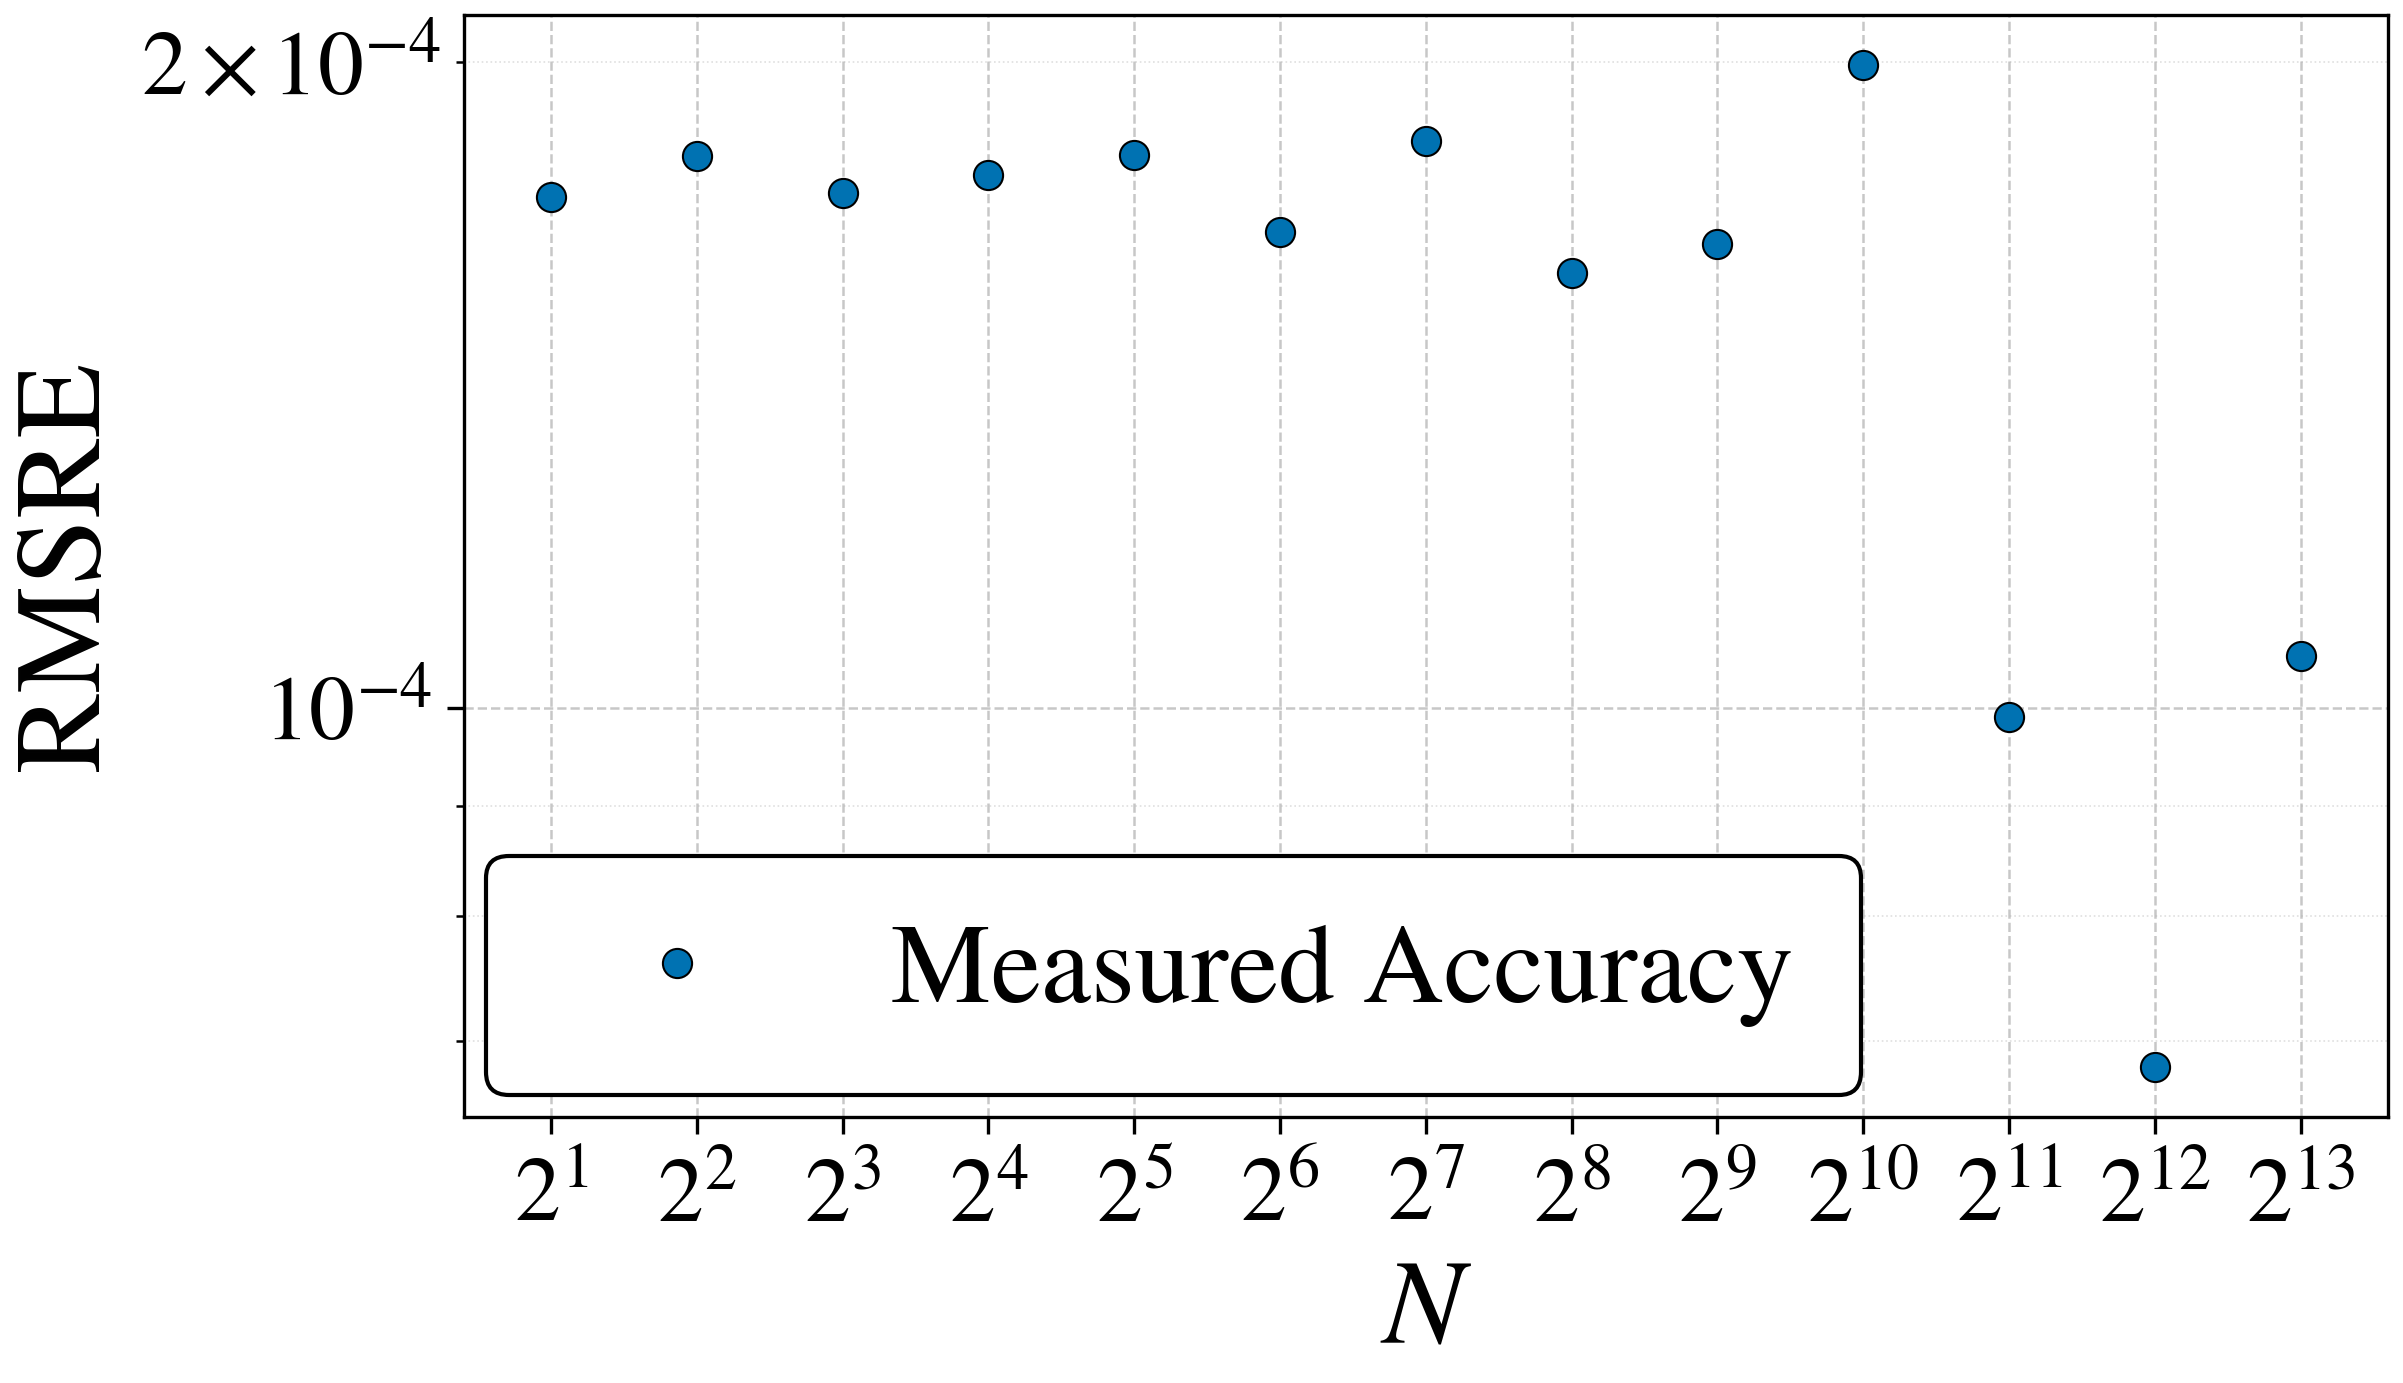
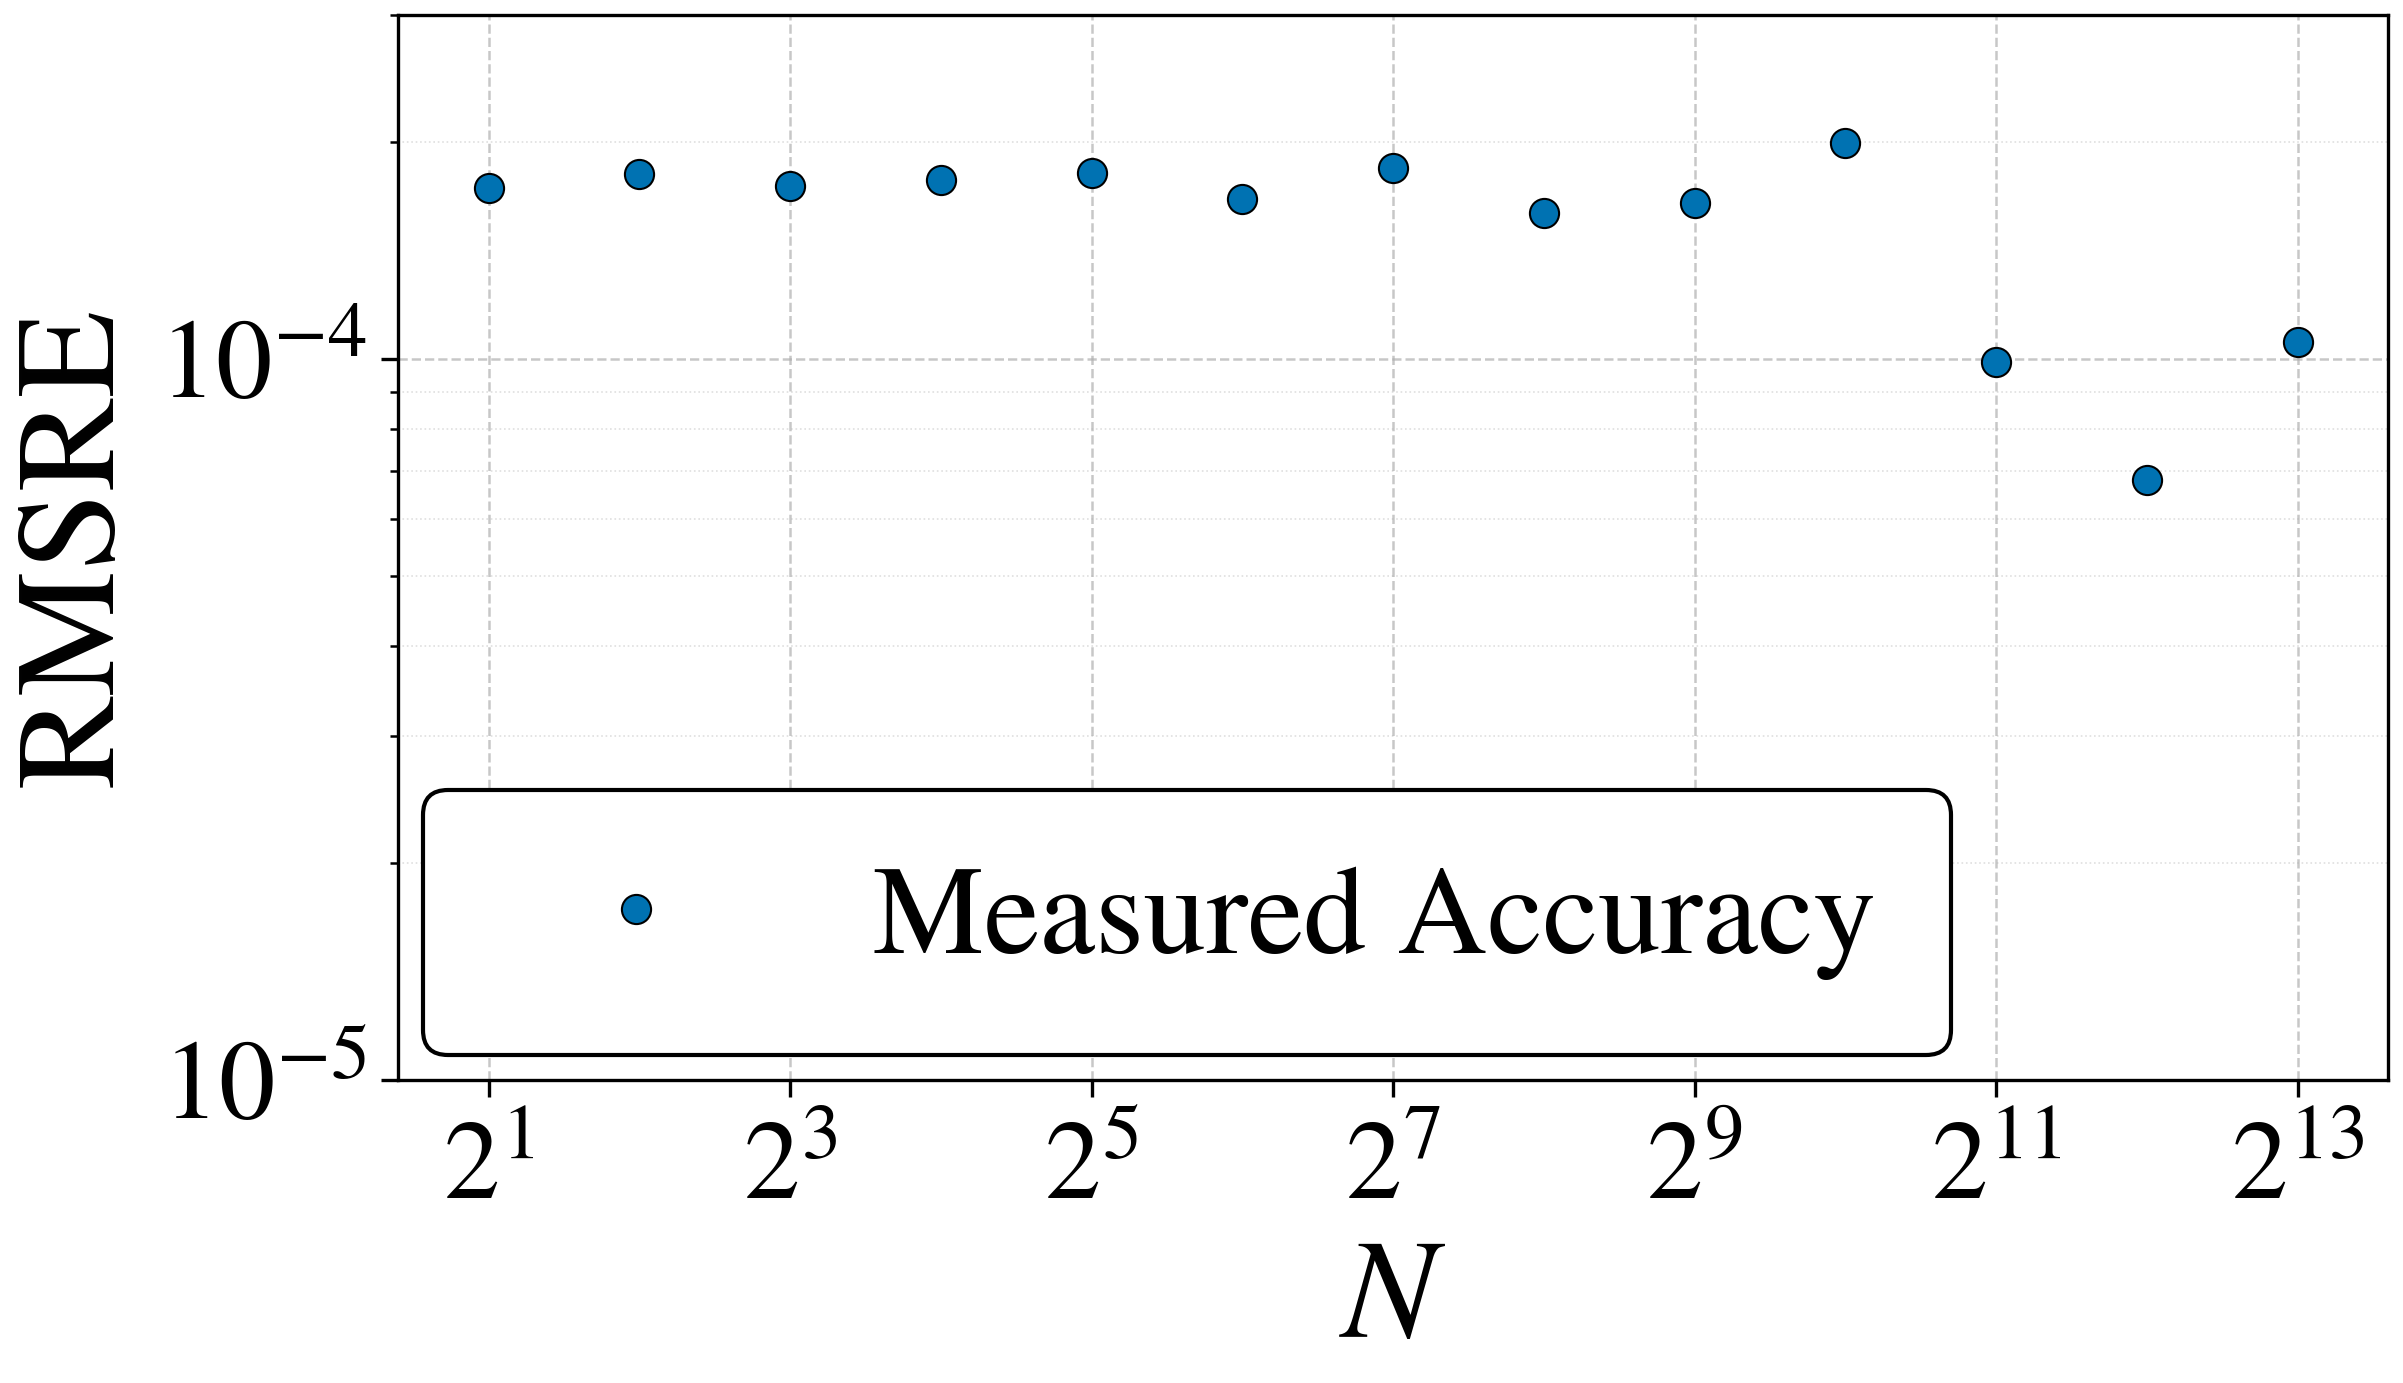
m

diff --git a/evaluation/layernorm/N_sweep/scripts/plot_accuracy.py b/evaluation/layernorm/N_sweep/scripts/plot_accuracy.py
@@ -17,11 +17,14 @@ Design notes
 * Both axes are logarithmic: ``N`` is restricted to 2 .. 8192 (``N_MAX``, always
   a power of two), and RMSRE spans a wide range, so a log-log view keeps every
   point legible and makes power-law trends read as straight lines. The x-axis
-  uses base 2 (``N`` is a power of two) with the sampled N values, labelled as
-  ``2^k``, as tick labels. Each figure's y-axis is autoscaled to its own series
-  (the 1-Newton figure additionally pins its limits to a clean decade bracket),
-  so both read clearly despite the two configurations occupying different RMSRE
-  ranges.
+  uses base 2 (``N`` is a power of two); ticks are labelled as ``2^k`` at the
+  odd exponents only (2^1, 2^3, ..., 2^13), every second one dropped so the
+  enlarged labels do not crowd once the figure is shrunk into its side-by-side
+  LaTeX pair. Each figure's y-axis is autoscaled to its own series (the 1-Newton
+  figure additionally brackets its limits to [1e-7, 3e-5] -- the three decade
+  ticks 10^-7..10^-5 plus a third-decade of headroom above 10^-5 to clear the
+  upper-left legend), so both read clearly despite the two configurations
+  occupying different RMSRE ranges.
 * Each measurement is drawn as a bare marker (no connecting line), so the raw
   sweep is shown exactly as sampled.
 * Only the 1-Newton series is close to a straight line on these log-log axes
@@ -177,13 +180,16 @@ def configure_style() -> None:
             "font.serif": ["STIXGeneral", "DejaVu Serif"],
             "mathtext.fontset": "stix",
             "axes.unicode_minus": True,
-            # Typographic sizes tuned for a ~half-to-full text-width figure.
+            # Typographic sizes tuned for a ~half-text-width figure: this plot is
+            # paired side by side with resources_lut_log.png in the thesis, so the
+            # axis/tick/legend type is enlarged to stay legible after LaTeX shrinks
+            # the pair to fit the text width.
             "font.size": 23,
             "axes.titlesize": 25,
-            "axes.labelsize": 29,
-            "xtick.labelsize": 22,
-            "ytick.labelsize": 22,
-            "legend.fontsize": 27,
+            "axes.labelsize": 34,
+            "xtick.labelsize": 27,
+            "ytick.labelsize": 27,
+            "legend.fontsize": 30,
             # Full black frame (all four spines) with outward ticks.
             "axes.linewidth": 0.8,
             "axes.edgecolor": "black",
@@ -258,13 +264,17 @@ def plot(label: str, color: str, marker: str, fit: bool,
     ax.set_xlabel(r"$N$")
     ax.set_ylabel(r"RMSRE")
 
-    # Show every sampled N as a major tick, labelled as a power of two (2^k) to
-    # match the base-2 log axis, and suppress the base-2 minor ticks so the axis
-    # stays uncluttered. Labels sit horizontally (the 2^k form is compact enough
-    # not to need slanting).
+    # Tick only the odd-exponent powers of two (2^1, 2^3, ..., 2^13), labelled as
+    # a power of two (2^k) to match the base-2 log axis, and suppress the base-2
+    # minor ticks. With the enlarged tick type (and the figure later shrunk into a
+    # side-by-side LaTeX pair) a label at every sampled N would crowd, so every
+    # second exponent is dropped; the even-exponent measurements are still plotted
+    # as points, they simply sit between labelled ticks. Labels sit horizontally
+    # (the 2^k form is compact enough not to need slanting).
     all_n = sorted(set(n_vals))
-    ax.set_xticks(all_n)
-    ax.set_xticklabels([pow2_label(n) for n in all_n])
+    tick_n = [n for n in all_n if (n.bit_length() - 1) % 2 == 1]
+    ax.set_xticks(tick_n)
+    ax.set_xticklabels([pow2_label(n) for n in tick_n])
     ax.xaxis.set_minor_locator(NullLocator())
 
     # Decade major grid on the y-axis plus faint minor dec.-subdivisions so the
@@ -276,16 +286,30 @@ def plot(label: str, color: str, marker: str, fit: bool,
 
     if fit:
         # The 1-Newton RMSRE spans ~1.5e-7 .. 9.1e-6, i.e. just inside the
-        # 10^-7 .. 10^-5 decades, so a tight autoscale would label only the
-        # single 10^-6 major tick. Bracket the limits to [1e-7, 1e-5] (both just
-        # outside the data range, so no point is clipped) to get three labelled
-        # decade ticks (10^-7, 10^-6, 10^-5).
-        ax.set_ylim(1e-7, 1e-5)
+        # 10^-7 .. 10^-5 decades. Bracket the limits to [1e-7, 3e-5]: the 1e-7
+        # floor and the 10^-7/10^-6/10^-5 decade ticks are unchanged, but the top
+        # is lifted a third of a decade above 10^-5 (from a tight 1e-5) to open
+        # headroom under the upper-left legend. With the enlarged legend type the
+        # box grows; at a 1e-5 top it would overlap the fit line and the N=1024
+        # point, so the extra headroom pushes the data down clear of the box while
+        # keeping every point inside the axes (max RMSRE 9.1e-6 < 3e-5).
+        ax.set_ylim(1e-7, 3e-5)
+    else:
+        # The 0-Newton floor sits at ~1.6e-4 with its large-N points dipping to
+        # ~6.8e-5, so a tight autoscale pins the bottom of the data almost onto
+        # the axis floor -- and the enlarged lower-left legend box would then
+        # graze the lowest large-N points. Bracket to [1e-5, 3e-4] (a decade of
+        # clear space below the lowest point, ~6.8e-5, and headroom above the peak
+        # ~2e-4) so the floor lifts into the upper band and the lower-left legend
+        # sits in genuinely empty space beneath it. No point is clipped
+        # (6.8e-5 .. 2e-4 all inside), and the 10^-5/10^-4 decade ticks are kept.
+        ax.set_ylim(1e-5, 3e-4)
 
     # Pin the legend into whichever corner is clear of the data, flush against
     # the spines (small border-axes pad). The 1-Newton series rises monotonically,
-    # leaving the top-left open; the 0-Newton floor clusters high with only its
-    # large-N points dipping down on the right, leaving the bottom-left open.
+    # leaving the top-left open; the 0-Newton floor clusters in the upper band
+    # (lifted there by the [1e-5, 3e-4] limits above), leaving the bottom-left
+    # open beneath the lowest large-N points.
     legend_loc = "upper left" if fit else "lower left"
     ax.legend(
         loc=legend_loc, ncol=1, handlelength=2.2,
